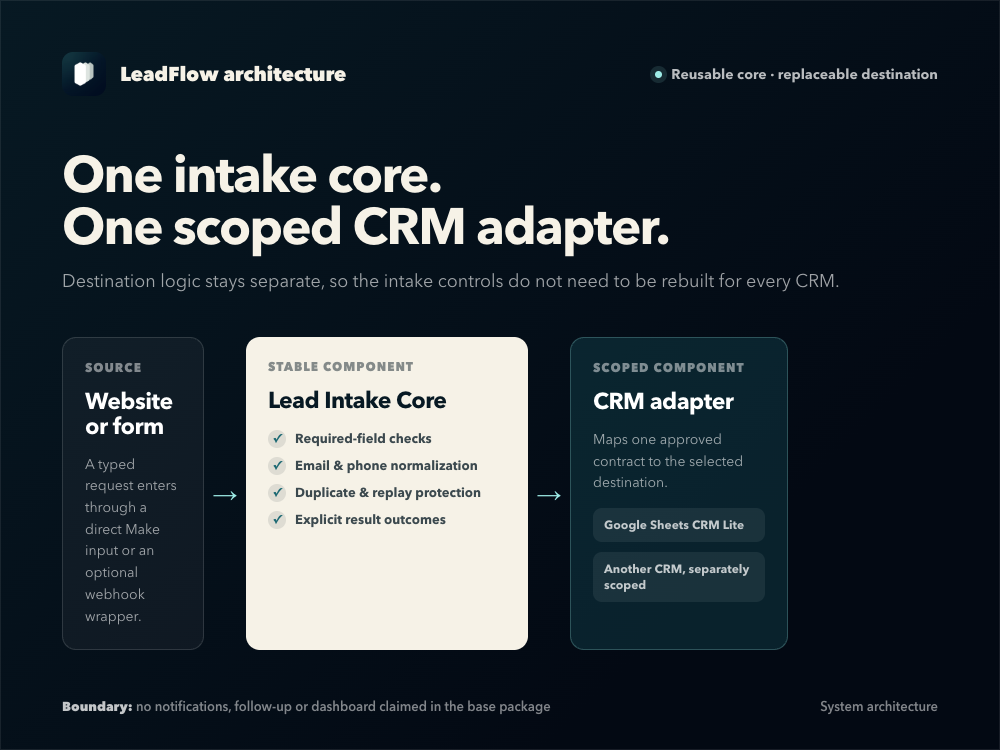
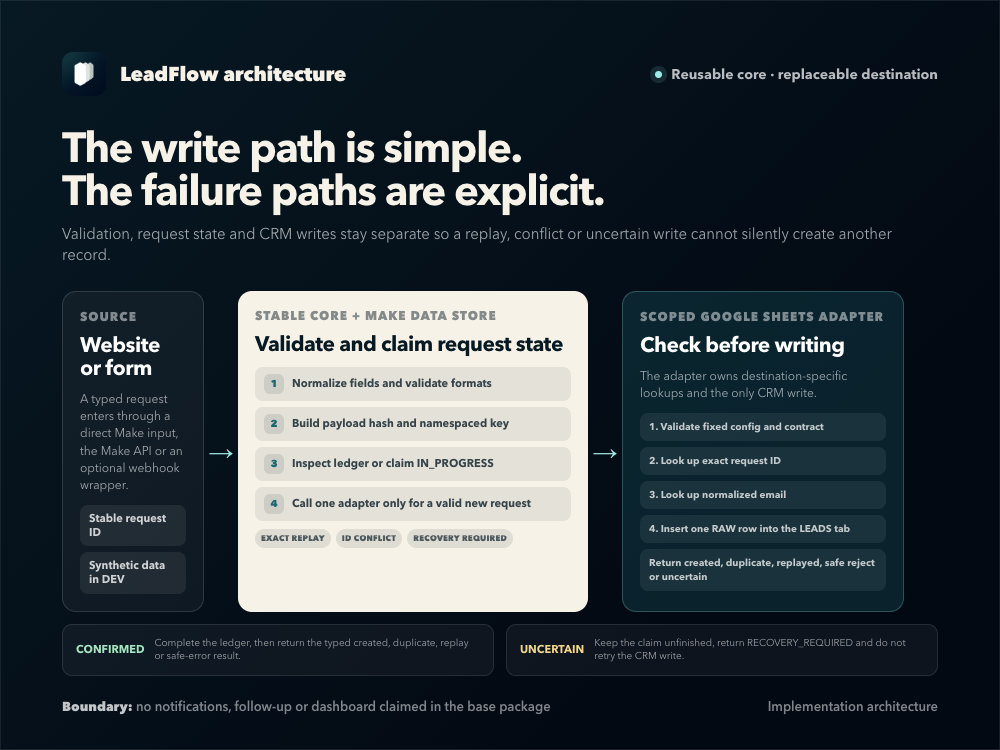
Improve architecture documentation (#1)

Changed region(s): [[0.062, 0.1533, 0.93, 0.8893], [0.775, 0.92, 0.868, 0.9507]]

diff --git a/docs/architecture.md b/docs/architecture.md
@@ -47,4 +47,22 @@ An exact completed replay can return a safe cached result without creating anoth
 
 A timeout after a create operation does not prove that the destination rejected the record. Automatically retrying could create a duplicate. The adapter therefore returns an uncertain result, and the Core leaves the request held for reconciliation.
 
+## Request paths
+
+| Condition | Component decision | Durable effect |
+| --- | --- | --- |
+| Required data missing or malformed | Core returns `MISSING_DATA` or `INVALID_INPUT` | No ledger claim and no CRM call |
+| Completed ledger entry with the same payload | Core returns the cached result | No adapter call and no new CRM row |
+| Same request ID with a changed payload | Core returns `REQUEST_ID_CONFLICT` | No adapter call and no new CRM row |
+| Unfinished or unsafe ledger state | Core returns `RECOVERY_REQUIRED` | Existing claim remains for reconciliation |
+| Valid new request | Core writes an `IN_PROGRESS` claim, then calls the adapter | One adapter call |
+| Adapter finds the exact request and matching payload | Adapter returns `REPLAYED` | No new CRM row |
+| Adapter finds the request ID with a different payload | Adapter returns a safe rejection | No new CRM row |
+| Adapter finds the normalized email under another request | Adapter returns `DUPLICATE` | No new CRM row |
+| Adapter finds no request or email match | Adapter inserts one RAW row into `LEADS` | One new CRM row |
+| Lookup fails before any write | Adapter returns a safe rejection | Core records a safe CRM error |
+| Row creation may have succeeded but is not confirmed | Adapter returns `UNCERTAIN` | Core leaves the claim unfinished and requires recovery |
+
+Confirmed `CREATED`, `DUPLICATE`, `REPLAYED`, and safely rejected results are finalized in the ledger before the Core returns. Unknown or uncertain adapter results are not finalized and are never marked safe for an automatic retry.
+
 See [Safety and recovery](safety-and-recovery.md) for the operator procedure.

diff --git a/README.md b/README.md
@@ -23,16 +23,27 @@ A sanitized Make.com demonstration for receiving leads, validating and normalizi
 
 ```mermaid
 flowchart LR
-    A[Website or form] --> B[Lead Intake Core]
-    B --> C{Validation}
-    C -->|Missing or invalid| D[Safe result, no CRM write]
-    C -->|Valid| E[Request ledger]
-    E -->|Replay or conflict| F[Cached or blocked result]
-    E -->|New request| G[CRM adapter]
-    G --> H[Google Sheets CRM Lite]
-    G --> I{Write result}
-    I -->|Confirmed| J[Complete ledger and return]
-    I -->|Uncertain| K[Recovery required, no blind retry]
+    A[Website or form] --> B[Typed Make input or optional wrapper]
+    B --> C[Normalize and validate]
+    C -->|Missing or invalid| R0[Safe typed result, no CRM write]
+    C -->|Valid| D[Build payload hash and namespaced key]
+    D --> E{Make Data Store ledger}
+    E -->|Completed, same payload| R1[Return cached replay]
+    E -->|Same ID, changed payload| R2[Return request conflict]
+    E -->|Unfinished or unsafe state| R3[Return recovery required]
+    E -->|New request| F[Claim IN_PROGRESS]
+    F --> G[Call scoped CRM adapter]
+    G --> H[Validate fixed config and contract]
+    H --> I{Exact request ID lookup}
+    I -->|Match| J[Replay, conflict or safe reject]
+    I -->|No match| K{Normalized email lookup}
+    K -->|Match| L[Duplicate or safe reject]
+    K -->|No match| M[Insert one RAW row in Google Sheets]
+    J --> N{Adapter result}
+    L --> N
+    M --> N
+    N -->|Confirmed or safely rejected| O[Complete ledger and return typed result]
+    N -->|Uncertain write| P[Leave claim unfinished and require recovery]
 ```
 
 The Core handles validation, normalization, idempotency, and result handling. The adapter owns the destination-specific work. A different CRM can replace the Google Sheets adapter without rebuilding the Core.
